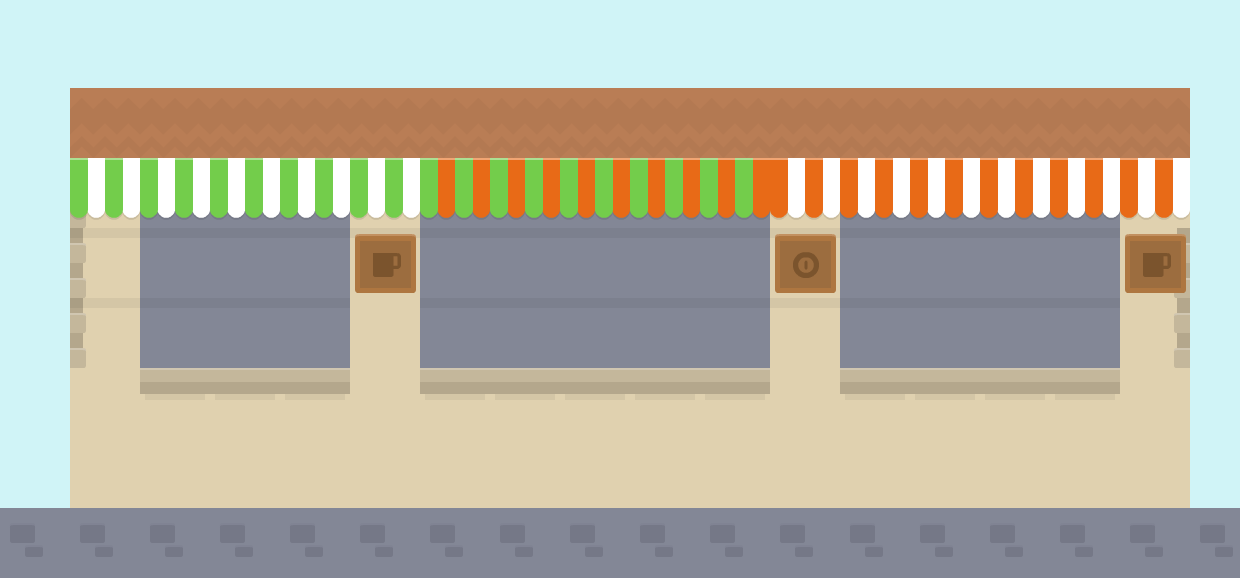
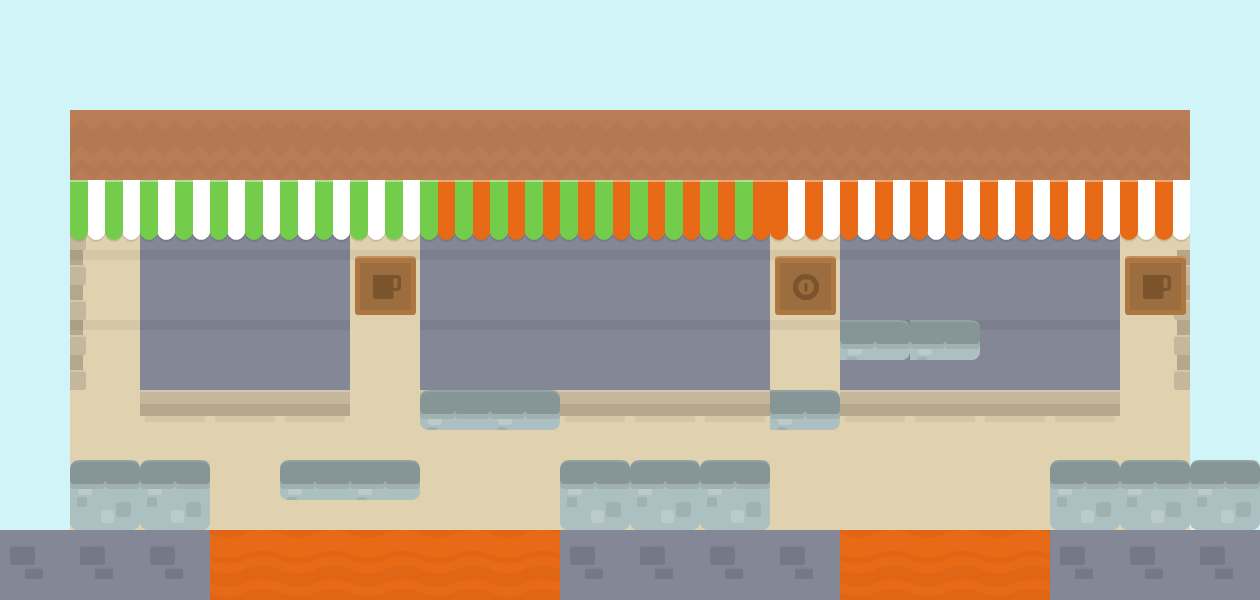
Acrescentado plataformas

Changed region(s): [[0.0, 0.1246, 1.0, 1.0], [0.2145, 0.7474, 0.3371, 0.8408]]

diff --git a/personagem.py b/personagem.py
@@ -32,6 +32,13 @@ class Personagem():
     walking_frames_r.append(image)
     back_x = 0
     
+    def volta_inicio(self):
+		pygame.display.update()
+		time.sleep(0.5)
+		self.pos_x = 0 
+		self.pos_y = 450
+		self.back_x = 0
+		pygame.display.update()
     
     def mover_fundo(self, qntde):
 		self.window.blit(self.fundo, (self.back_x - 800, 0))
@@ -39,17 +46,20 @@ class Personagem():
 		self.back_x += qntde
 		
     def mover_personagem(self, qntde):
-        self.pos_x += qntde
-        self.window.blit(self.fundo, (self.back_x, 0))
-        self.window.blit(self.walking_frames_r[1], (self.pos_x, self.pos_y))
-        pygame.display.update()
-        time.sleep(0.06)
-        self.window.blit(self.fundo, (self.back_x, 0))
-        self.pos_x += qntde
-        self.window.blit(self.walking_frames_r[0], (self.pos_x, self.pos_y))
-        pygame.display.update()
+		self.pos_x += qntde
+		self.window.blit(self.fundo, (self.back_x, 0))
+		self.window.blit(self.walking_frames_r[1], (self.pos_x, self.pos_y))
+		pygame.display.update()
+		time.sleep(0.06)    
+		self.window.blit(self.fundo, (self.back_x, 0))
+		self.pos_x += qntde
+		self.gravidade()
+		self.window.blit(self.walking_frames_r[0], (self.pos_x, self.pos_y))
+		pygame.display.update()
             
     def direita(self):
+		if (self.bateu('d') == True):
+			return
 		if (self.pos_x <=  self.fundo.get_height()):
 			self.mover_fundo(-10)
 			self.mover_personagem(5)
@@ -62,23 +72,69 @@ class Personagem():
 		    pygame.display.update()
 
     def esquerda(self):
+		if (self.bateu('e') == True):
+			return
 		if (self.pos_x >= 0):
 		    self.mover_fundo(10)
 		    self.mover_personagem(-5)
 
-    def cima(self):
+    def pular(self):
         self.pos_y -= 100
         self.window.blit(self.fundo, (self.back_x, 0))
         pygame.display.update()
         self.window.blit(self.walking_frames_r[0], (self.pos_x, self.pos_y))
         pygame.display.update()
-        self.baixo()
+        self.gravidade()
         self.window.blit(self.walking_frames_r[0], (self.pos_x, self.pos_y))
         time.sleep(0.3)
         self.window.blit(self.fundo, (self.back_x, 0))
         pygame.display.update()
-
-
-    def baixo(self):
-        while self.pos_y != 450:
-            self.pos_y += 10
+        
+    def pular_direita(self):
+		self.pos_y -= 100
+		self.pos_x += 50
+		self.mover_fundo(-50)
+		self.window.blit(self.fundo, (self.back_x, 0))
+		pygame.display.update()
+		self.window.blit(self.walking_frames_r[0], (self.pos_x, self.pos_y))
+		pygame.display.update()
+		time.sleep(0.3)
+		self.gravidade()
+		self.window.blit(self.walking_frames_r[0], (self.pos_x, self.pos_y))
+		self.window.blit(self.fundo, (self.back_x, 0))
+		pygame.display.update()
+   
+    def bateu(self,lado):
+		#Mindica esquerda, verificando se há algo a esquerda
+		if (lado == 'e'):
+			for i in range(len(jogar.nivel.platforms)):
+				#Tarefa para Matteus, colocar cada expressão lógica dessas numa expressão menor para diminuir o tamanho dessa linha
+				if (((jogar.nivel.platforms[i][2] >= self.pos_x) and (jogar.nivel.platforms[i][1] <= self.pos_x)) and not(jogar.nivel.platforms[i][0] == self.pos_y) and not(jogar.nivel.platforms[i][0] >= self.pos_y)):
+					return True
+		else:
+			#Verificando se há algo a direita
+			for i in range(len(jogar.nivel.platforms)):
+				if (((self.pos_x -jogar.nivel.platforms[i][1] > -25) and (self.pos_x -jogar.nivel.platforms[i][1] < 0)) and not(jogar.nivel.platforms[i][0] == self.pos_y)and not(jogar.nivel.platforms[i][0] >= self.pos_y)):
+					return True
+		return False
+			
+   
+    def gravidade(self):
+		    aux = self.pos_y
+		    for i in range(len(jogar.nivel.platforms)):
+			   self.pos_y = aux
+			   while (self.pos_y != 450):
+				   print i, len(jogar.nivel.platforms), self.pos_y
+				   if((jogar.nivel.platforms[i][0] == self.pos_y) and ((jogar.nivel.platforms[i][1] <= self.pos_x) and (jogar.nivel.platforms[i][2] >= self.pos_x))): 
+				       return
+				   self.pos_y += 10
+		    print i
+		    self.pos_y = 450
+		    for i in range(len(jogar.nivel.buracos)):
+				if ((jogar.nivel.buracos[i][0] <= self.pos_x) and (jogar.nivel.buracos[i][1] >= self.pos_x)):
+					self.volta_inicio()
+					
+			
+	
+					    
+				    

diff --git a/jogar.py b/jogar.py
@@ -6,16 +6,22 @@
 
 import pygame, sys, time, personagem
 
- 
+#Provavelmente estes níveis irão para outro arquivo, mas provisiralmente, aqui
 class Nivel1():
     bg = "img/sayonara.png"
+    #A matriz representa o local dos blocos, a ordem é [y1, x1, x2, y2], por que é nessa ordem?
+    #como diria Joseana, porque sim, foi a "equipe" de "engenheiros" que projetou que quiz assim
+    platforms = [[390, 25, 90, 450], [390, 125, 190, 450], [320, 200, 255, 390], [390, 255, 370, 450], [320, 380, 410, 390], [260, 420, 470, 280], [390, 500, 700, 450]]
+    #Esta matriz representa os buracos, onde [x1, x2], indicando onde começa e termina tais ítens
+    buracos = [[90, 200], [410, 500]]
 
 class Nivel2():
 	#fundo provisório =P =V
     bg = "pessoasbugadas.jpg"
-	
+    platforms = [[0,0,0]]
+		
         
-nivel = Nivel1()		
+nivel = Nivel1()	
 
 def jogar():
     window = pygame.display.set_mode((800, 600)) 
@@ -25,16 +31,14 @@ def jogar():
     fundo = pygame.image.load(nivel.bg)
     
     #O segundo parâmetro da função define o delay das teclas.
-    pygame.key.set_repeat(10, 20) 
+    pygame.key.set_repeat(10, 30) 
     
     window.blit(player.walking_frames_r[0], (player.pos_x, player.pos_y))
-    window.blit(fundo, (0, 0))
-    
+    window.blit(fundo, (0, 0))    
     # botao que define a pausa (por enquanto voltando para o menu)
     pausa = False
     
     while True:
-        pygame.mouse.set_visible(False)
         window.blit(player.walking_frames_r[0], (player.pos_x, player.pos_y))
         if pausa == True:
             break
@@ -44,11 +48,13 @@ def jogar():
             elif event.type == pygame.KEYDOWN:
                 if event.key == pygame.K_ESCAPE:
                     pausa = True
-                if event.key == pygame.K_LEFT:
+                elif event.key == pygame.K_LEFT:
                     player.esquerda()
-                if event.key == pygame.K_RIGHT:
+                elif event.key == pygame.K_RIGHT:
                     player.direita()
-                if event.key == pygame.K_UP:
-                    player.cima()
+                elif event.key == pygame.K_UP:
+                    player.pular()
+                elif event.key == pygame.K_SPACE:
+					player.pular_direita()
                 
         pygame.display.update()

diff --git a/main.py b/main.py
@@ -9,6 +9,7 @@ import pygame, sys, jogar
 pygame.init()
 pygame.display.set_caption('UFCG: the journey!')
 window = pygame.display.set_mode((800, 600))
+
 # variaveis relacionadas o menu
 white = (255, 255, 255)
 menu = 0
@@ -28,7 +29,7 @@ while True:
     # menu inicial - 0 
     if menu == 0:
         window.blit(menu0, (0, 0))
-        
+     
         if 220 < mouse_pos_x < 440 and 160 < mouse_pos_y < 480:
             window.blit(menu0_select, (0, 0))
             if click:
